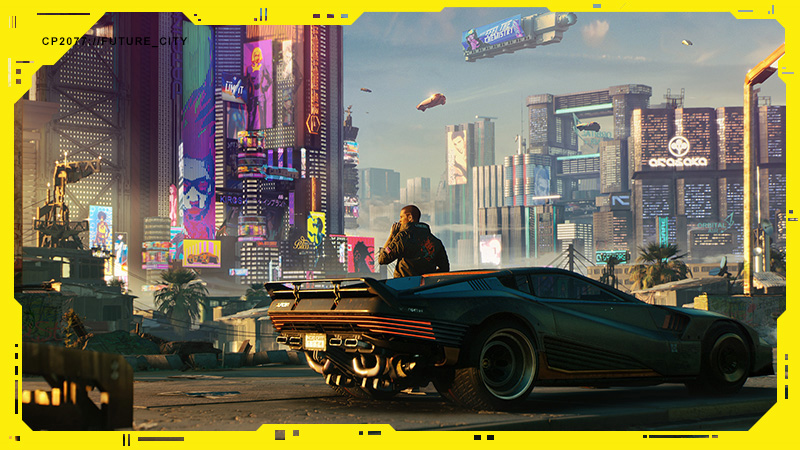
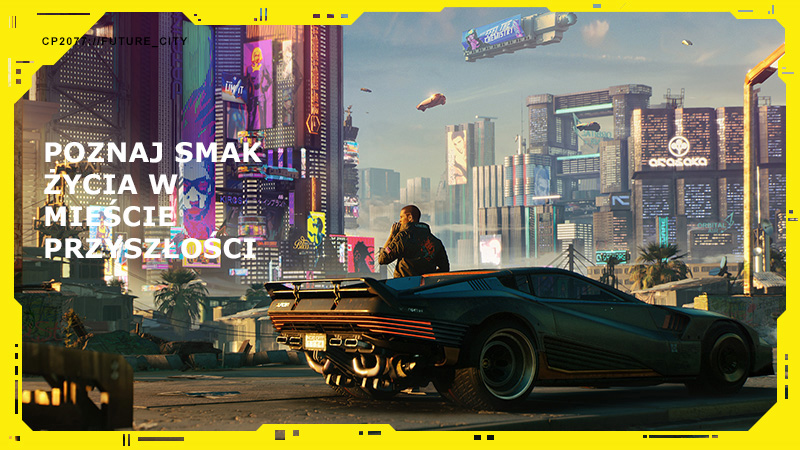
v 1.34
Test for the responsive part of the mail
Testing the preview of the link to Online version of the e-mail

Changed region(s): [[0.0312, 0.3111, 0.3438, 0.5911]]

diff --git a/index.html b/index.html
@@ -10,8 +10,6 @@
         @media only screen and (max-width: 640px){
             .mail-container {
                 width: 100%;
-                padding: 0;
-                margin: 0;
             }
         }
 
@@ -20,21 +18,6 @@
                 width: 100%;
                 padding: 0;
                 margin: 0;
-            }
-            img {
-                width: 30%;
-            }
-            p {
-                font-size: 10px;
-            }
-            h1 {
-                font-size: 22px;
-            }
-            h2 {
-                font-size: 16px;
-            }
-            h4 {
-                font-size: 12px;
             }
         }
     </style>
@@ -46,6 +29,21 @@
             <td>
                 <!-- Start of the Main Container -->
                 <table class="mail-container" width="600" border="0" align="center" cellspacing="0" cellpadding="0" style="font-family: Verdana,Geneva,sans-serif;">
+
+                    <!-- View Email Online link -->
+                    <tr>
+                        <td>
+                            <table class="header-paragraph" width="100%" border="0" align="center" cellspacing="0" cellpadding="0" style="font-family: Verdana,Geneva,sans-serif; background: #000000; ">
+                                <tr>
+                                    <td align="center" style="padding: 5px; margin: 0;">
+                                        <a href="https://rbulawa.github.io/Cyberpunk_2077_Email" target="blank">
+                                            <p style="color: #ffffff; font-size: 12px; text-align: center; line-height: 1.7; margin: 0; font-weight: 300; padding-left: 0px; padding-right: 0px; padding-bottom: 0px; padding-top: 0px; letter-spacing: 0.3px; font-family: Verdana,Geneva,sans-serif; text-decoration: underline;">Obejrzyj maila Online</p>
+                                        </a>
+                                    </td>
+                                </tr>
+                            </table>
+                        </td>
+                    </tr>
                     <!-- Start of Hero Title Section -->
                     <tr>
                         <td>
@@ -117,7 +115,7 @@
                             <table width="100%" border="0" align="center" cellspacing="0" cellpadding="0" style="background: #fcee0a; font-family: Verdana,Geneva,sans-serif; margin: 0; padding: 20px 0px; padding-bottom: 40px;" >
                                 <tr>
                                     <td align="center" width="100%">
-                                        <a align="center" style="text-decoration: none;" href="https://www.cyberpunk.net/pl/pl/pre-order" target="blank"><img src="https://rbulawa.github.io/Cyberpunk_2077_Email/img/buy-btn-red.png" alt="Przycisk kupna gry"><h3 style=" margin-top: -55px; text-transform: uppercase; font-weight: 600; letter-spacing: 2px; color: #ffffff; text-decoration: none;">Zamów teraz_</h3></a>
+                                        <a align="center" style="text-decoration: none;" href="https://www.cyberpunk.net/pl/pl/pre-order" target="blank"><img src="https://rbulawa.github.io/Cyberpunk_2077_Email/img/buy-btn-red2.png" alt="Przycisk kupna gry"></a>
                                     </td>
                                 </tr>
                             </table>
@@ -141,9 +139,8 @@
                         <td>
                             <table width="100%" border="0" align="center" cellspacing="0" cellpadding="0" style="font-family: Verdana,Geneva,sans-serif; margin: 0; background: #fcee0a;">
                                 <tr>
-                                    <td width="100%" style="padding-bottom: 40px;">
+                                    <td width="100%" style="padding-bottom: 0px;">
                                         <img align="center" width="100%" style="background: #fcee0a;" src="https://rbulawa.github.io/Cyberpunk_2077_Email/img/lotr01.jpg" alt="Obrazek postaci Łotra">
-                                        <h4 align="right" width="100%" style="font-size: 22px; color: #ffffff; margin-top: -180px; margin-left: 350px; margin-right: 40px; text-transform: uppercase; font-weight: 600; letter-spacing: 2px;">GRAJ WYJĘTYM SPOD PRAWA NAJEMNIKIEM</h4>
                                     </td>
                                 </tr>
                             </table>
@@ -152,7 +149,7 @@
                     <!-- Row 1 Underneath Text -->
                     <tr>
                         <td>
-                            <table width="100%" border="0" align="center" cellspacing="0" cellpadding="0" style="font-family: Verdana,Geneva,sans-serif; margin: 0; background: #fcee0a; padding: 10px 0px;">
+                            <table width="100%" border="0" align="center" cellspacing="0" cellpadding="0" style="font-family: Verdana,Geneva,sans-serif; margin: 0; background: #fcee0a; padding: 0px;">
                                 <tr>
                                     <td width="100%">
                                         <p align="left" style="color: #000000; font-size: 12px; text-align: left; line-height: 1.7; font-weight: 600; padding: 20px 60px; letter-spacing: 0.3px; margin-top: 10px; font-family: Verdana,Geneva,sans-serif; ">Zostań cyberpunkiem, uzbrojonym po zęby wolnym strzelcem, i stań się legendą najbardziej niebezpiecznego miasta przyszłości.</p>
@@ -166,9 +163,8 @@
                         <td>
                             <table width="100%" border="0" align="center" cellspacing="0" cellpadding="0" style="font-family: Verdana,Geneva,sans-serif; margin: 0; background: #fcee0a;">
                                 <tr>
-                                    <td width="100%" style="padding-bottom: 110px;">
+                                    <td width="100%" style="padding-bottom: 0px;">
                                         <img align="center" width="100%" style="background: #fcee0a;" src="https://rbulawa.github.io/Cyberpunk_2077_Email/img/future-city01.jpg" alt="Obrazek z miastem przyszłości Nigh City">
-                                        <h4 align="left" width="100%" style="font-size: 22px; color: #ffffff; margin-top: -250px; margin-left: 40px; margin-right: 350px; text-transform: uppercase; font-weight: 600; letter-spacing: 2px;">POZNAJ SMAK ŻYCIA W MIEŚCIE PRZYSZŁOŚCI</h4>
                                     </td>
                                 </tr>
                             </table>
@@ -177,7 +173,7 @@
                     <!-- Row 2 Underneath Text -->
                     <tr>
                         <td>
-                            <table width="100%" border="0" align="center" cellspacing="0" cellpadding="0" style="font-family: Verdana,Geneva,sans-serif; margin: 0; background: #fcee0a; padding: 10px 0px;">
+                            <table width="100%" border="0" align="center" cellspacing="0" cellpadding="0" style="font-family: Verdana,Geneva,sans-serif; margin: 0; background: #fcee0a; padding: 0px;">
                                 <tr>
                                     <td width="100%">
                                         <p align="left" style="color: #000000; font-size: 12px; text-align: left; line-height: 1.7; font-weight: 600; padding: 20px 60px; letter-spacing: 0.3px; margin-top: 10px; font-family: Verdana,Geneva,sans-serif; ">Witaj w Night City — stworzonym z rozmachem mieście przyszłości, w którym zatracisz się bez pamięci.</p>
@@ -193,7 +189,6 @@
                                 <tr>
                                     <td width="100%" style="padding-bottom: 0px;">
                                         <img align="center" width="100%" style="background: #fcee0a;" src="https://rbulawa.github.io/Cyberpunk_2077_Email/img/cyberpunk-techno01.JPG" alt="Obrazek z technologią Cyberpunk 2077">
-                                        <h4 align="center" width="100%" style="font-size: 22px; color: #ffffff; margin-top: -160px; margin-left: 350px; margin-right: 40px; text-transform: uppercase; font-weight: 600; letter-spacing: 2px;">UKRADNIJ TECHNOLOGIĘ DAJĄCĄ WIECZNE ŻYCIE</h4>
                                     </td>
                                 </tr>
                             </table>
@@ -229,14 +224,13 @@
                     <!-- Trailer Image Section -->
                     <tr>
                         <td>
-                            <table width="100%" border="0" align="center" cellspacing="0" cellpadding="0" style="font-family: Verdana,Geneva,sans-serif; margin: 0; background: #fcee0a;">
+                            <table width="100%" border="0" align="center" cellspacing="0" cellpadding="0" style=" font-family: Verdana,Geneva,sans-serif; margin: 0; background: #fcee0a;">
                                 <tr>
                                     <td width="100%" style="padding-bottom: 0px; background: #020012;">
-                                        <img align="center" width="100%" style="background: #020012; padding-bottom: 20px;" src="https://rbulawa.github.io/Cyberpunk_2077_Email/img/trailer3.jpg" alt="Obrazek zwiastunowy z odnośnikiem">
-                                            <a align="center" width="100%" style="padding: 0px; margin: 0px;" target="blank" href="https://www.youtube.com/watch?v=qIcTM8WXFjk">
-                                                <img src="img/YT-play-btn.png" alt="Link do zwiastunu Cyberpunk 2077" style="padding: 0px; margin-top: -250px; margin-bottom: 180px; margin-left: 100px; margin-right: 40px;">
-                                            </a>
-                                        <img align="center" width="100%" style="padding: 0px; margin: 0px; background: #05DBF6;" src="https://rbulawa.github.io/Cyberpunk_2077_Email/img/end-bar-xbox2.jpg" alt="Pas dekoracyjny kończący sekcje">
+                                        <a align="center" width="100%" style="padding: 0px; margin: 0px;" target="blank" href="https://www.youtube.com/watch?v=qIcTM8WXFjk">
+                                            <img align="center" width="100%" style="background: #020012; padding-bottom: 0px;" src="https://rbulawa.github.io/Cyberpunk_2077_Email/img/trailer3.jpg" alt="Obrazek zwiastunowy z odnośnikiem">
+                                        </a>
+                                        <img align="center" width="100%" style="padding-top: 40px; margin: 0px; background: #020012;" src="https://rbulawa.github.io/Cyberpunk_2077_Email/img/end-bar-xbox2.jpg" alt="Pas dekoracyjny kończący sekcje">
                                     </td>
                                 </tr>
                             </table>
@@ -252,9 +246,9 @@
                                         <img align="center" style="padding-left: 40px;" src="https://rbulawa.github.io/Cyberpunk_2077_Email/img/cyberpunk_underline.png" alt="">
                                         <p style="font-size: 12px; text-align: left; line-height: 1.7; margin: 0; font-weight: 600; padding-left: 40px; padding-right: 80px; padding-bottom: 20px; padding-top: 40px; letter-spacing: 0.3px; font-family: Verdana,Geneva,sans-serif; ">Projekt tej limitowanej edycji konsoli Xbox One X o pojemności 1TB został stworzony przez artystów ze studia CD PROJEKT RED we współpracy z firmą Microsoft. Na wyjątkowy wygląd urządzenia składają się m.in. zmieniające kolor elementy świecące w ciemności, a także specjalne dekoracyjne panele, diody LED i faktura obudowy.</p>
                                             <a width="100%" style="padding: 0px; margin: 0px; text-decoration: none;" target="blank" href="https://www.xbox.com/pl-PL/consoles/xbox-one-x/cyberpunk-2077-1tb-le">
-                                                <h2 align="left" style="color: #000000; text-transform: uppercase; letter-spacing: 0px; padding-top: 10px; padding-left: 40px; padding-bottom: 30px; margin: 0px;">Dostępne od czerwca 2020</h2>
+                                                <h2 align="left" style="color: #000000; text-transform: uppercase; letter-spacing: 0px; padding-top: 20px; padding-left: 40px; padding-bottom: 30px; margin: 0px;">Dostępne od czerwca 2020</h2>
                                             </a>
-                                        <img align="center" width="100%" style="padding: 0px; margin: 0px; background: #fcee0a;" src="https://rbulawa.github.io/Cyberpunk_2077_Email/img/end-bar-blue.jpg" alt="Pas dekoracyjny kończący sekcje">
+                                        <img align="center" width="100%" style="padding-top: 30px; margin: 0px; background: #05DBF6 ;" src="https://rbulawa.github.io/Cyberpunk_2077_Email/img/end-bar-blue.jpg" alt="Pas dekoracyjny kończący sekcje">
                                     </td>
                                 </tr>
                             </table>
@@ -265,11 +259,10 @@
                         <td>
                             <table width="100%" border="0" align="center" cellspacing="0" cellpadding="0" style="font-family: Verdana,Geneva,sans-serif; margin: 0px; padding: 0px; background: #050014;">
                                 <tr>
-                                    <td width="100%" style="padding: 0px; margin: 0px;">
-                                        <img width="100%" style="background: #fcee0a; padding: 0px; margin: 0px;" src="https://rbulawa.github.io/Cyberpunk_2077_Email/img/xbox-CP2077.jpg" alt="Obrazek limitowanej edycji Xbox'a w stylu Cyberpunk 2077">  
-                                            <a align="center" width="100%" style="padding: 0px; margin: 0px;" target="blank" href="https://www.xbox.com/pl-PL/consoles/xbox-one-x/cyberpunk-2077-1tb-le">
-                                                <img align="center" src="https://rbulawa.github.io/Cyberpunk_2077_Email/img/buy-btn-red2.png" alt="Link do zwiastunu Cyberpunk 2077" style="padding: 0px; margin-top: -230px; margin-bottom: 130px; margin-left: 100px; margin-right: 40px;">
-                                            </a>
+                                    <td width="100%" style="padding: 0px; margin: 0px;">  
+                                        <a align="center" width="100%" style="padding: 0px; margin: 0px;" target="blank" href="https://www.xbox.com/pl-PL/consoles/xbox-one-x/cyberpunk-2077-1tb-le">
+                                            <img width="100%" style="background: #fcee0a; padding: 0px; margin: 0px;" src="https://rbulawa.github.io/Cyberpunk_2077_Email/img/xbox-CP2077.jpg" alt="Obrazek limitowanej edycji Xbox'a w stylu Cyberpunk 2077">      
+                                        </a>
                                     </td>
                                 </tr>
                             </table>
@@ -277,9 +270,9 @@
                     </tr>
                     <!-- Buy Xbox Controller Section-->
                     <tr>
-                        <td style="padding: 0px; margin: 0px; background: #050014;">
+                        <td style="padding: 0px 0px; margin: 0px; background: #050014;">
                             <table width="100%" border="0" align="center" cellspacing="0" cellpadding="0" style="font-family: Verdana,Geneva,sans-serif; margin: 0px; padding: 0px; background: #050014;">
-                                <p style="color: #ffffff; font-size: 12px; text-align: left; line-height: 1.7; margin: 0; font-weight: 600; padding-left: 40px; padding-right: 80px; padding-bottom: 20px; padding-top: 0px; letter-spacing: 0.3px; font-family: Verdana,Geneva,sans-serif; ">Konsoli towarzyszy równie unikatowy, bezprzewodowy kontroler, którego cyberpunkowy wygląd i klimatyczne wykończenie nawiązuje do Johnnego Silverhanda — jednej z głównych postaci gry. Kontroler może być kupiony w zestawie z konsolą lub oddzielnie.</p>
+                                <p style="color: #ffffff; font-size: 12px; text-align: left; line-height: 1.7; margin: 0; font-weight: 600; padding-left: 40px; padding-right: 80px; padding-bottom: 30px; padding-top: 30px; letter-spacing: 0.3px; font-family: Verdana,Geneva,sans-serif; ">Konsoli towarzyszy równie unikatowy, bezprzewodowy kontroler, którego cyberpunkowy wygląd i klimatyczne wykończenie nawiązuje do Johnnego Silverhanda — jednej z głównych postaci gry. Kontroler może być kupiony w zestawie z konsolą lub oddzielnie.</p>
                                 <img align="center" width="100%" style="padding: 0px; margin: 0px; background: #fcee0a;" src="https://rbulawa.github.io/Cyberpunk_2077_Email/img/black-end-bar3.jpg" alt="Pas dekoracyjny kończący sekcje">
                             </table>
                         </td>
@@ -303,7 +296,7 @@
                             <table width="100%" border="0" align="center" cellspacing="0" cellpadding="0" style="background: #050014; font-family: Verdana,Geneva,sans-serif; margin: 0; padding: 20px 0px; padding-bottom: 80px;" >
                                 <tr>
                                     <td align="center" width="100%" style="padding: 0px;">
-                                        <a style="text-decoration: none;" href="https://steelseries.com/cyberpunk-2077" target="blank"><img src="https://rbulawa.github.io/Cyberpunk_2077_Email/img/buy-btn-red-white.png" alt="Przycisk kupna gry"><h3 style=" margin-top: -55px; text-transform: uppercase; font-weight: 600; letter-spacing: 2px; color: #ffffff; text-decoration: none;">Zamów teraz_</h3></a>
+                                        <a style="text-decoration: none;" href="https://steelseries.com/cyberpunk-2077" target="blank"><img src="https://rbulawa.github.io/Cyberpunk_2077_Email/img/buy-btn-red2.png" alt="Przycisk kupna gry"></a>
                                     </td>
                                 </tr>
                             </table>
@@ -349,12 +342,13 @@
                                             <a align="center" href="https://www.cdprojekt.com/pl/">
                                                 <img align="center" width="32%" style="padding-top: 0px; padding-bottom: 20px; margin: 0px; background: #fcee0a;" src="https://rbulawa.github.io/Cyberpunk_2077_Email/img/CDProjektRed-Black-logo.png" alt="Logo CD Projekt Red">
                                             </a>
-                                            <p style="color: #000000; font-size: 12px; text-align: left; line-height: 1.4; margin: 0; font-weight: 300; padding-left: 40px; padding-right: 40px; padding-bottom: 20px; padding-top: 20px; letter-spacing: 0.2px; font-family: Verdana,Geneva,sans-serif; ">CD PROJEKT®, Cyberpunk®, Cyberpunk 2077® są zarejestrowanymi znakami towarowymi CD PROJEKT S.A. © 2020 CD PROJEKT S.A. Wszelkie prawa zastrzeżone. Wszelkie inne znaki towarowe, nazwy i logo są znakami towarowymi lub zastrzeżonymi znakami towarowymi należącymi do swoich prawowitych właścicieli. </p>
+                                            <p style="color: #000000; font-size: 9px; text-align: left; line-height: 1.4; margin: 0; font-weight: 300; padding-left: 40px; padding-right: 80px; padding-bottom: 20px; padding-top: 20px; letter-spacing: 0.2px; font-family: Verdana,Geneva,sans-serif; ">CD PROJEKT®, Cyberpunk®, Cyberpunk 2077® są zarejestrowanymi znakami towarowymi CD PROJEKT S.A. © 2020 CD PROJEKT S.A. Wszelkie prawa zastrzeżone. Wszelkie inne znaki towarowe, nazwy i logo są znakami towarowymi lub zastrzeżonymi znakami towarowymi należącymi do swoich prawowitych właścicieli. </p>
                                         </td>
                                     </tr>
                             </table>
                         </td>
                     </tr>
+                    
                 </table>
             </td>
         </tr>
